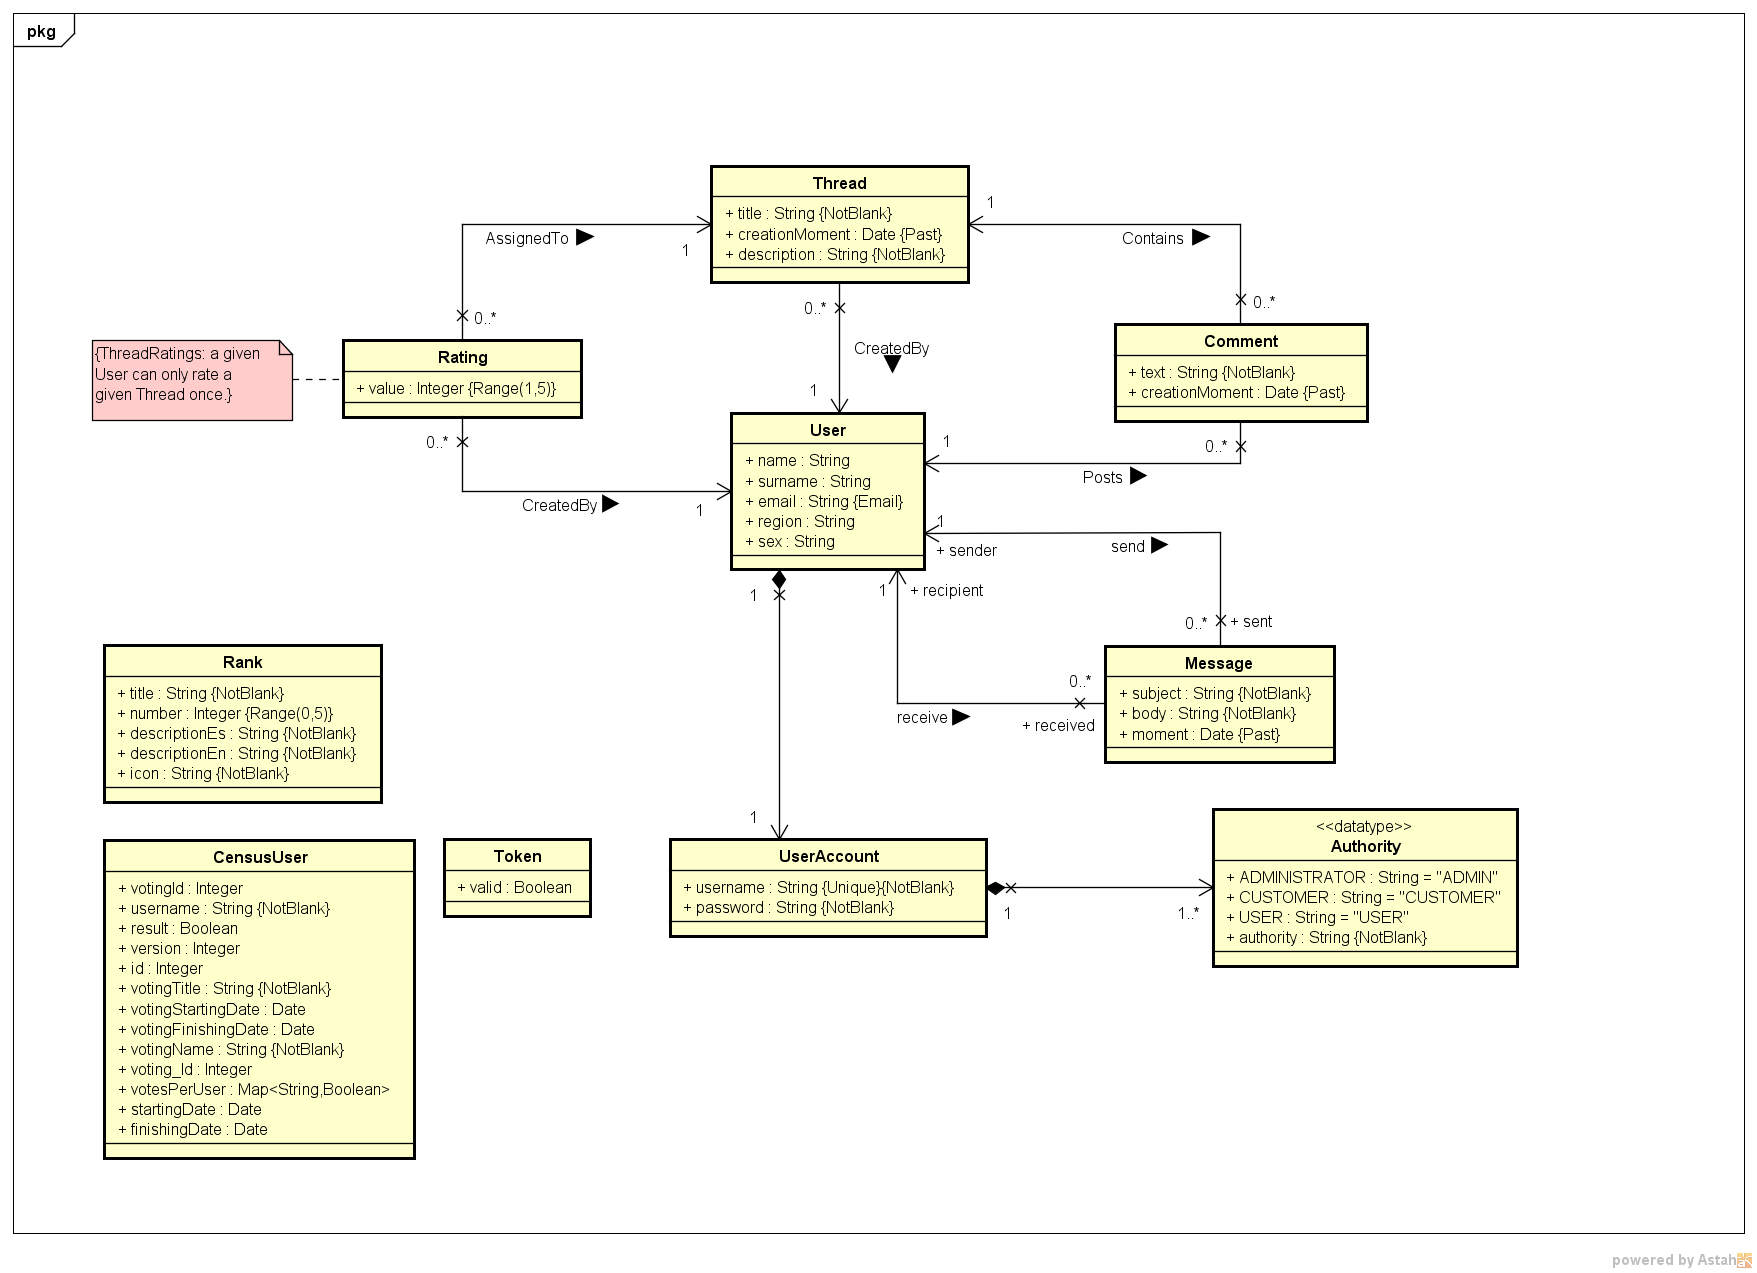
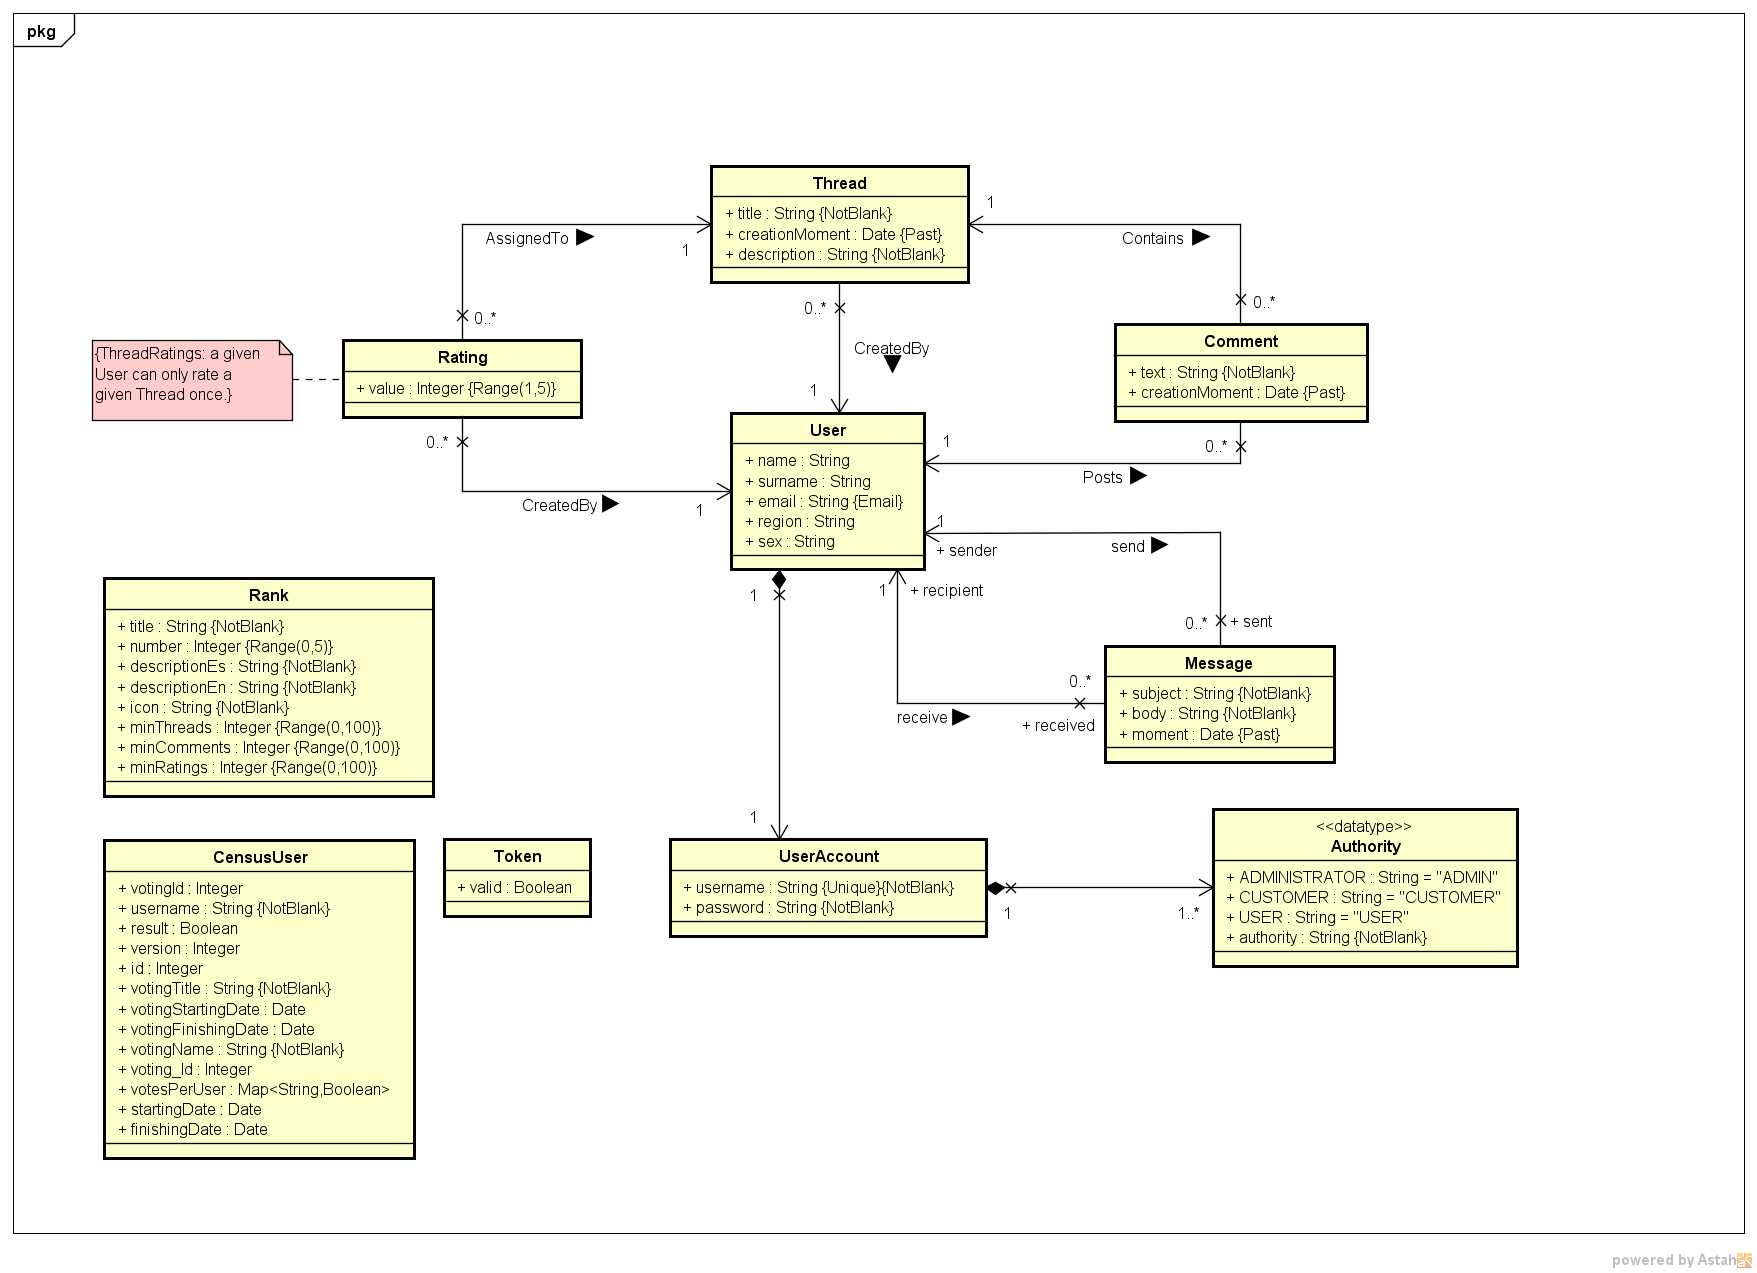
Corregido la internacionalización de la descripción de los Rangos Se ha dividido en 2 el atributo original "description" de forma que ahora se muestre el ES o el EN dependiendo del idioma en que pongamos la aplicación. Actualizado modelo UML

Changed region(s): [[0.0615, 0.4289, 0.2459, 0.6434]]

diff --git a/src/main/java/domain/Rank.java b/src/main/java/domain/Rank.java
@@ -28,9 +28,9 @@ public class Rank extends DomainEntity{
 	
 	private String title;
 	private Integer number;
-	private String description;
+	private String descriptionEs;
+	private String descriptionEn;
 	private String icon;
-	
 	private Integer minThreads;
 	private Integer minComments;
 	private Integer minRatings;
@@ -55,11 +55,20 @@ public class Rank extends DomainEntity{
 	
 	@NotBlank
 	@Column(columnDefinition = "LONGBLOB") 
-	public String getDescription() {
-		return description;
+	public String getDescriptionEs() {
+		return descriptionEs;
 	}
-	public void setDescription(String description) {
-		this.description = description;
+	public void setDescriptionEs(String descriptionEs) {
+		this.descriptionEs = descriptionEs;
+	}
+	
+	@NotBlank
+	@Column(columnDefinition = "LONGBLOB") 
+	public String getDescriptionEn() {
+		return descriptionEn;
+	}
+	public void setDescriptionEn(String descriptionEn) {
+		this.descriptionEn = descriptionEn;
 	}
 	
 	@NotNull
